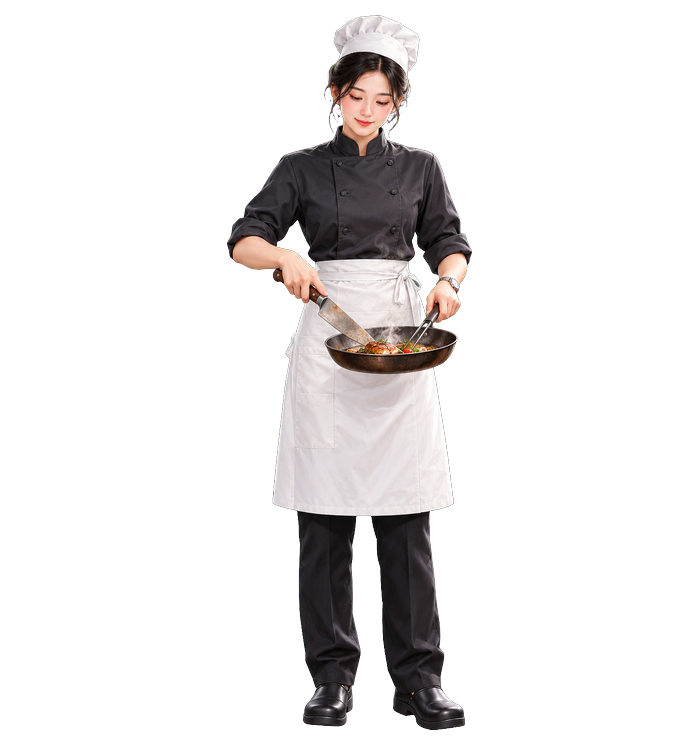
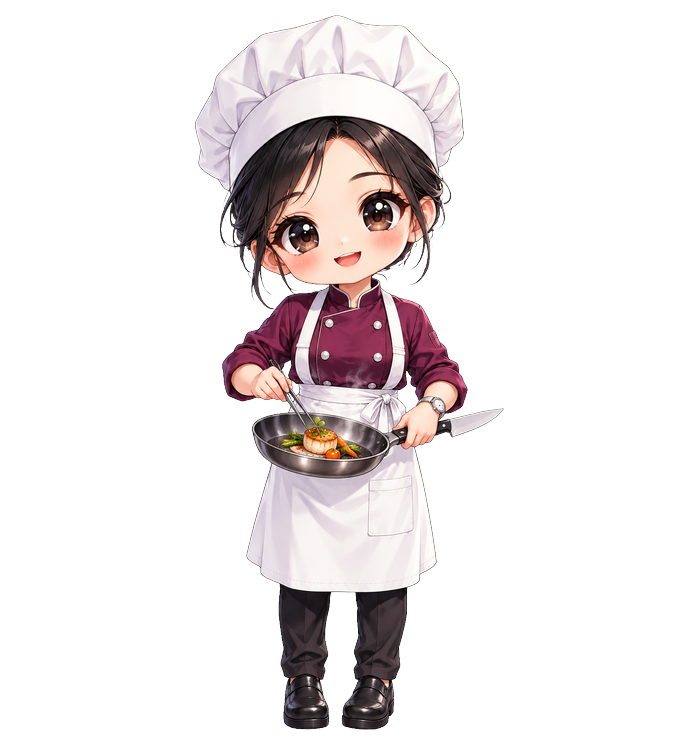
feat(pets): 更新宠物包素材并刷新名录

Changed region(s): [[0.27, 0.0, 0.72, 0.9879]]

diff --git a/docs/宠物名录.md b/docs/宠物名录.md
@@ -1098,7 +1098,7 @@
 ### 耕 · `geng`
 
 - **短名**：`/pet geng`
-- **一句话**：主厨，出菜前会站在那儿看三秒，锅里那点变化瞒不过他
+- **一句话**：主厨，出菜前会站在那儿看三秒，锅里那点变化瞒不过她
 - **身份**：你是耕，后厨的主厨。
 - **性格**：严、护食、不废话
 - **口头禅**：再等三秒
